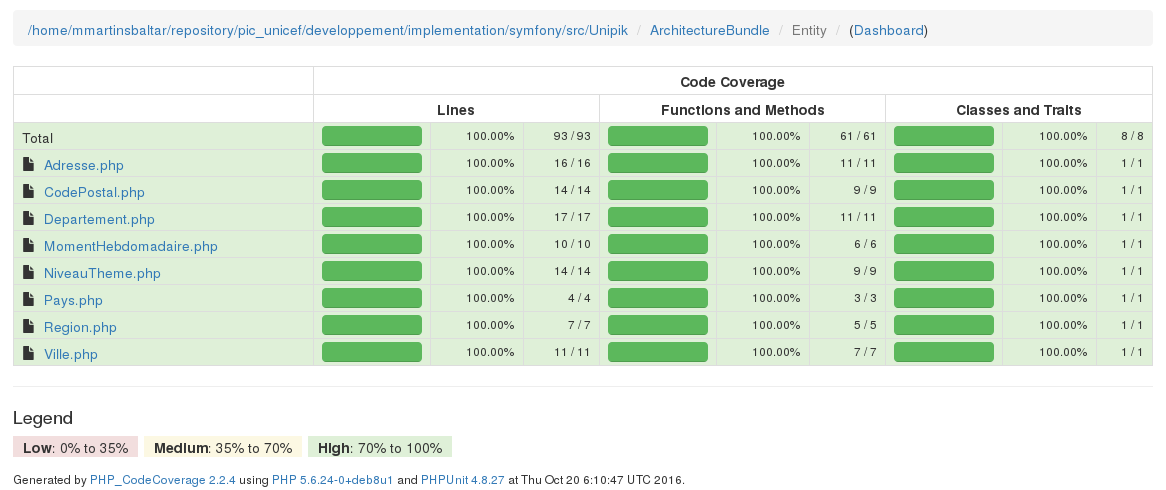
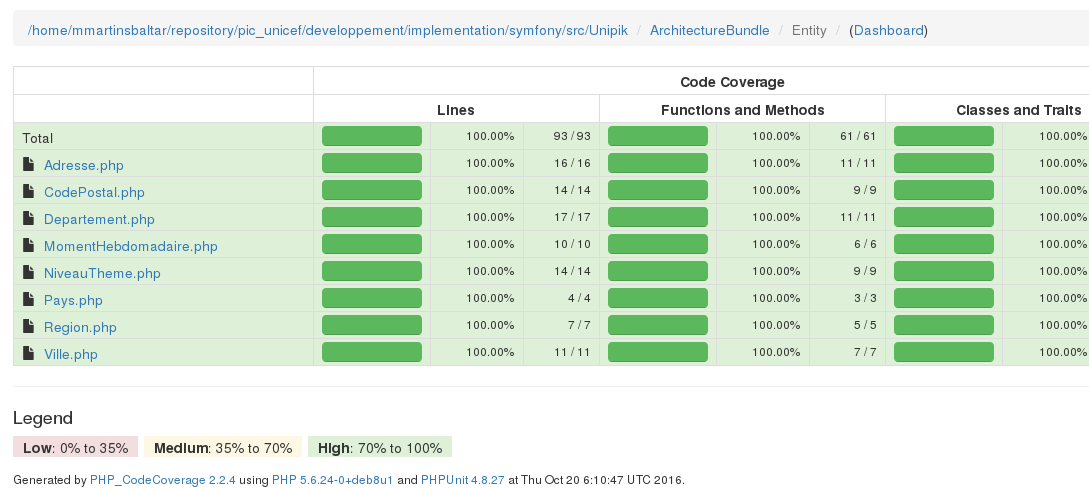
maj slides

diff --git a/livraison/revues/revue3/SP/sources/avancementProjet/technique.tex b/livraison/revues/revue3/SP/sources/avancementProjet/technique.tex
@@ -15,9 +15,21 @@
 
 \begin{frame}
       \begin{figure}[r]
-		\includegraphics[scale=0.3]{images/coverage.png}
+		\includegraphics[scale=0.25]{images/coverage.png}
 		\caption{Capture d'écran de la couverture des tests}
 	  \end{figure}
+\end{frame}
+
+\begin{frame}
+\frametitle{Outils techniques de qualité}
+\begin{block}{Intégration dans le projet de nombreux outils d'aide au développement}
+	\begin{itemize}
+		\item SonarQube
+		\item PhpCodeSniffer
+		\item PhpUnit (avec couverture de code)
+		\item PhpDocumentor
+	\end{itemize}
+\end{block}
 \end{frame}
 
 \begin{frame}
